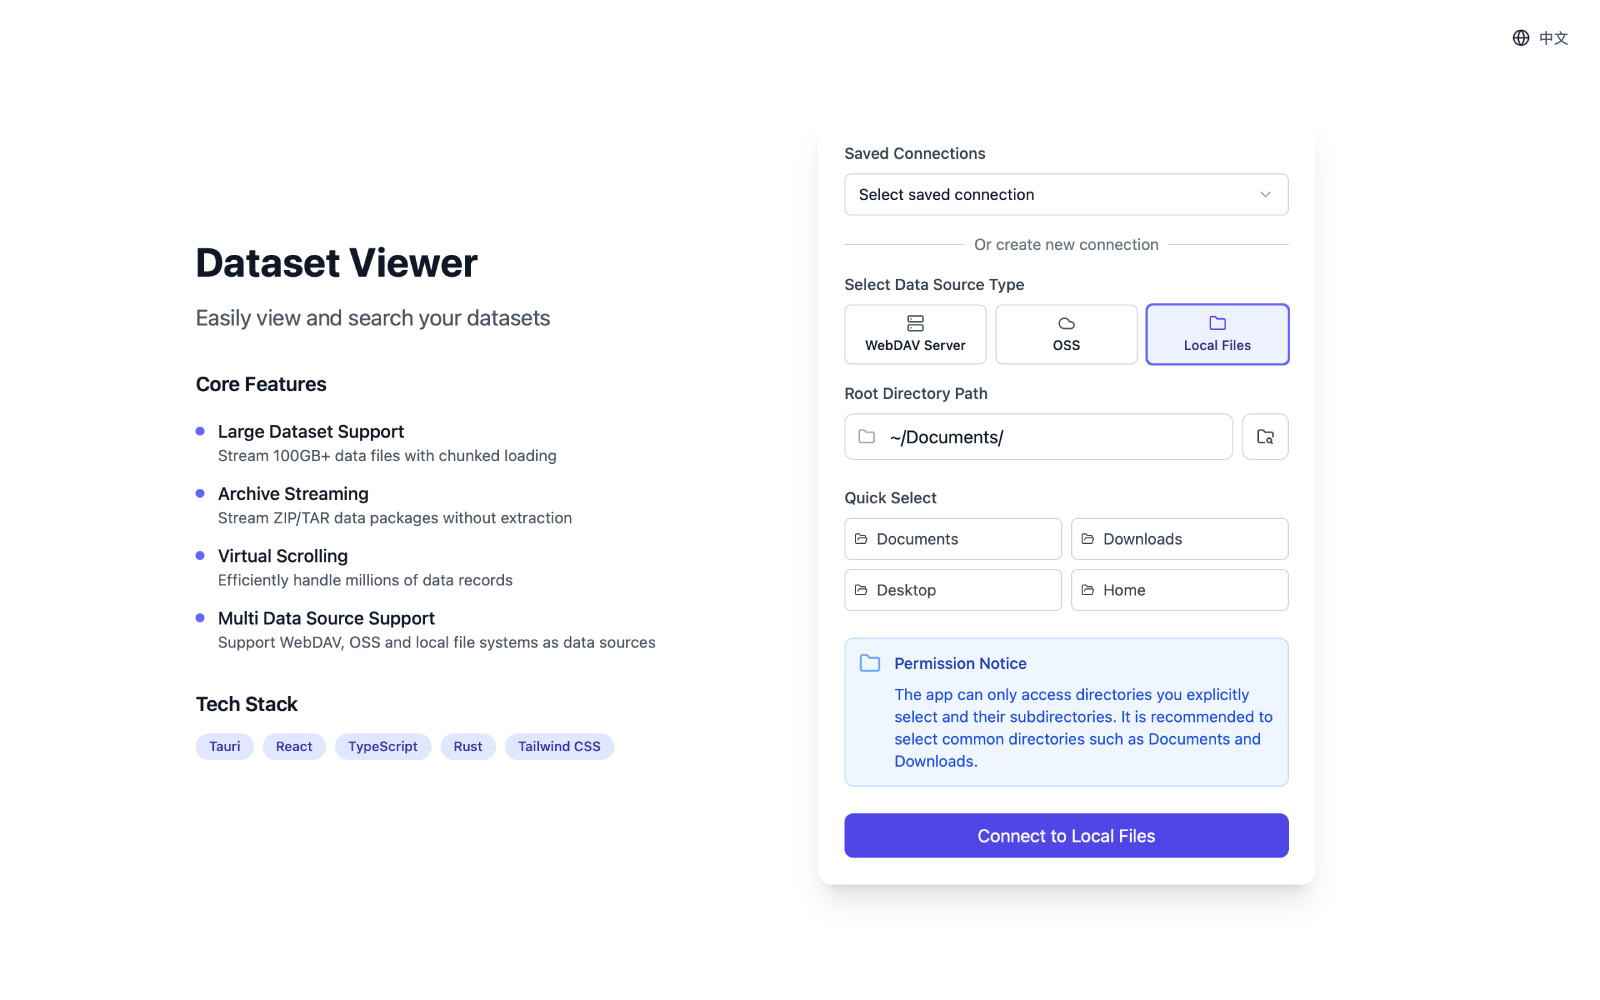
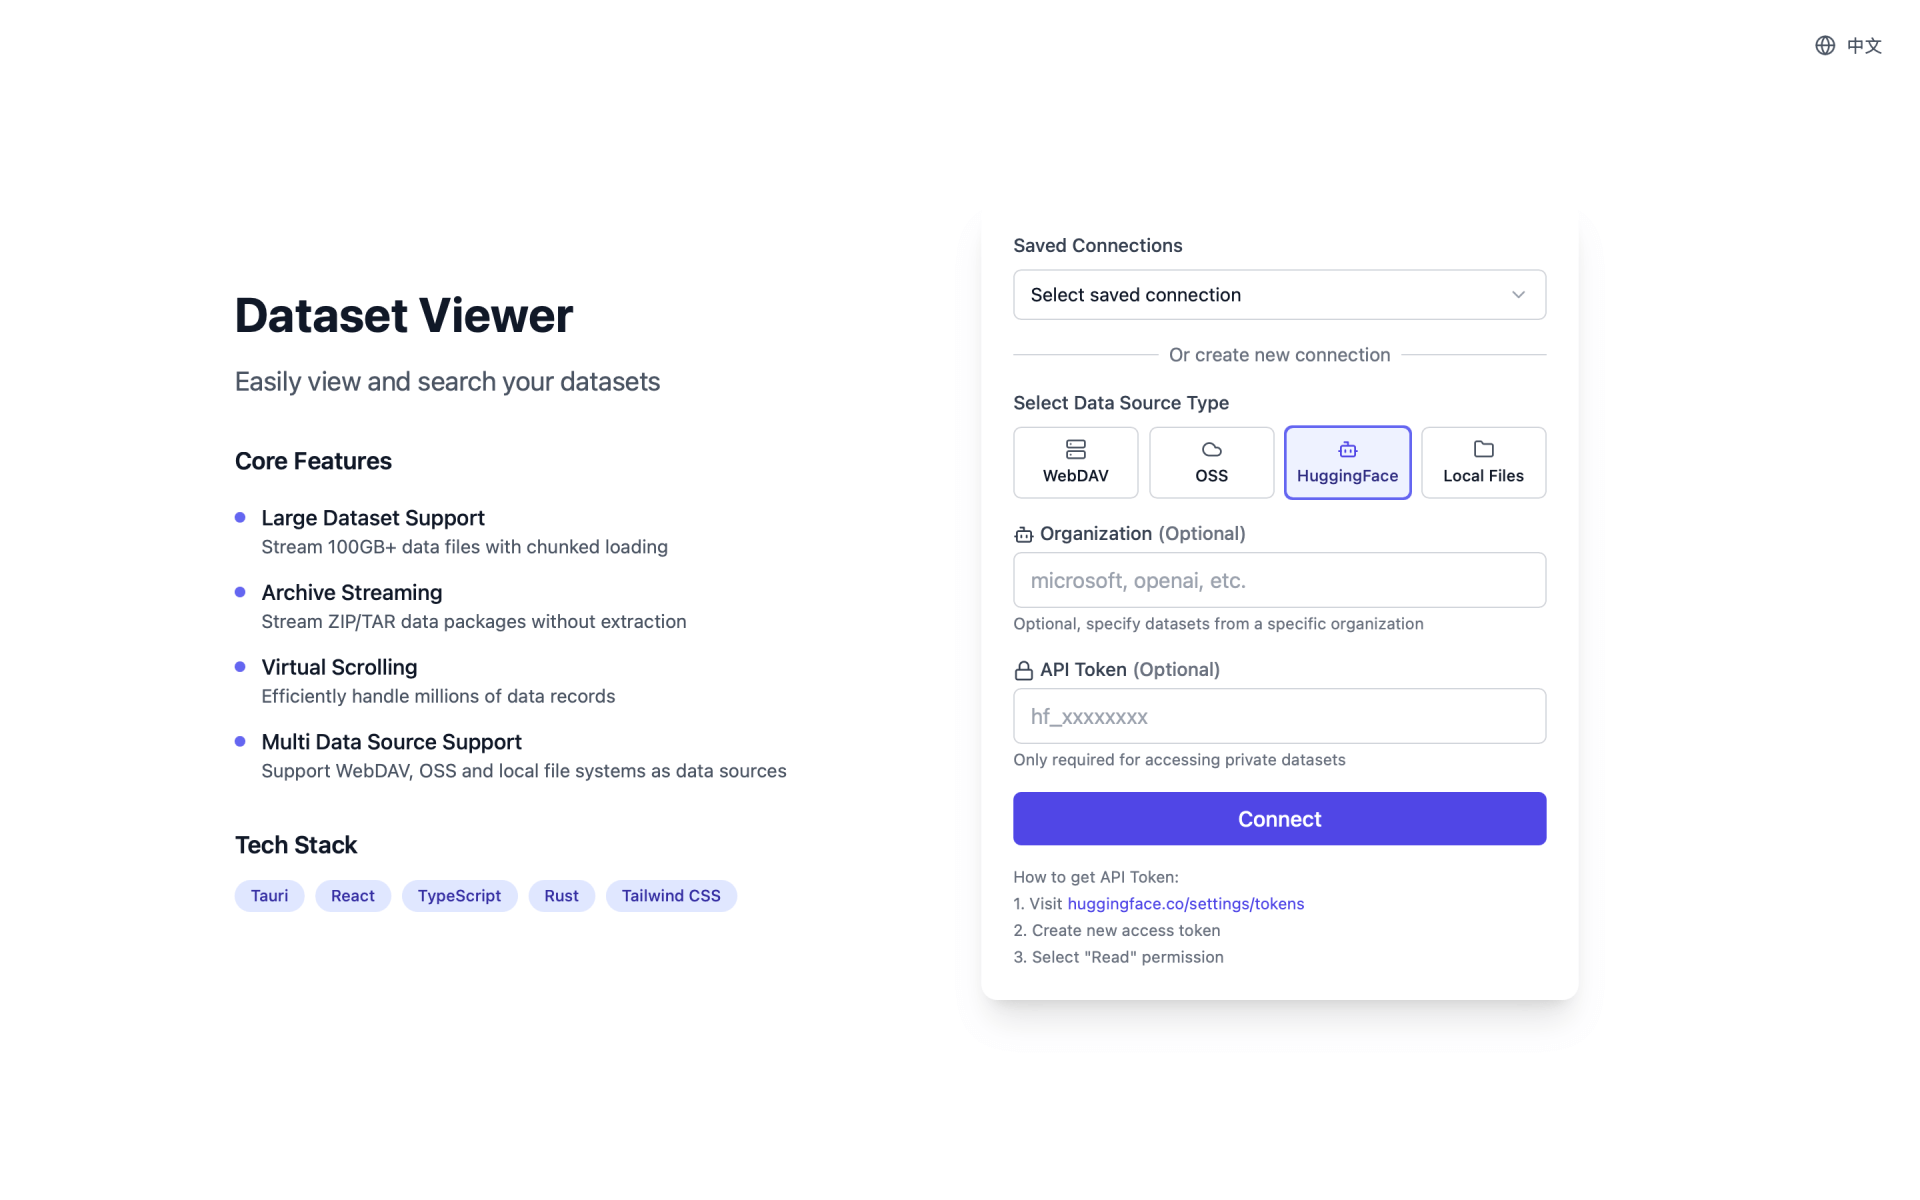
feat: add HuggingFace support and fix i18n configuration
- Add HuggingFace to multi-source descriptions in README files
- Update error messages to include HuggingFace support
- Add HuggingFace to supported protocols list
- Fix i18n namespace usage by removing namespace parameters
- Clean up duplicate translation keys across files
- Consolidate app.name, connected.to, and app.initializing in common.ts
- Remove hardcoded default values from translation functions

diff --git a/src/components/ConnectionPanel/HuggingFaceConnectionForm.tsx b/src/components/ConnectionPanel/HuggingFaceConnectionForm.tsx
@@ -75,20 +75,20 @@ export const HuggingFaceConnectionForm: React.FC<HuggingFaceConnectionFormProps>
       <div>
         <label className="block text-sm font-medium text-gray-700 dark:text-gray-300 mb-1">
           <Bot className="inline w-4 h-4 mr-1" />
-          {t('huggingface.organization', '组织')}
-          <span className="text-gray-500 ml-1">{t('common.optional', '(可选)')}</span>
+          {t('huggingface.organization')}
+          <span className="text-gray-500 ml-1">{t('optional')}</span>
         </label>
         <input
           type="text"
           value={formData.organization}
           onChange={handleInputChange('organization')}
-          placeholder={t('huggingface.organization.placeholder', 'microsoft, openai, etc.')}
+          placeholder={t('huggingface.organization.placeholder')}
           className="w-full px-3 py-2 border border-gray-300 dark:border-gray-600 rounded-md
                    bg-white dark:bg-gray-700 text-gray-900 dark:text-gray-100
                    focus:outline-none focus:ring-2 focus:ring-indigo-500 focus:border-transparent"
         />
         <p className="text-xs text-gray-500 dark:text-gray-400 mt-1">
-          {t('huggingface.organization.help', '可选，指定特定组织的数据集')}
+          {t('huggingface.organization.help')}
         </p>
       </div>
 
@@ -96,20 +96,20 @@ export const HuggingFaceConnectionForm: React.FC<HuggingFaceConnectionFormProps>
       <div>
         <label className="block text-sm font-medium text-gray-700 dark:text-gray-300 mb-1">
           <Lock className="inline w-4 h-4 mr-1" />
-          {t('huggingface.apiToken', 'API Token')}
-          <span className="text-gray-500 ml-1">{t('common.optional', '(可选)')}</span>
+          {t('huggingface.apiToken')}
+          <span className="text-gray-500 ml-1">{t('optional')}</span>
         </label>
         <input
           type="password"
           value={formData.apiToken}
           onChange={handleInputChange('apiToken')}
-          placeholder={t('huggingface.apiToken.placeholder', 'hf_xxxxxxxx')}
+          placeholder={t('huggingface.apiToken.placeholder')}
           className="w-full px-3 py-2 border border-gray-300 dark:border-gray-600 rounded-md
                    bg-white dark:bg-gray-700 text-gray-900 dark:text-gray-100
                    focus:outline-none focus:ring-2 focus:ring-indigo-500 focus:border-transparent"
         />
         <p className="text-xs text-gray-500 dark:text-gray-400 mt-1">
-          {t('huggingface.apiToken.help', '仅在访问私有数据集时需要')}
+          {t('huggingface.apiToken.help')}
         </p>
       </div>
 
@@ -125,20 +125,20 @@ export const HuggingFaceConnectionForm: React.FC<HuggingFaceConnectionFormProps>
         {isConnecting ? (
           <div className="flex items-center justify-center">
             <div className="animate-spin rounded-full h-4 w-4 border-b-2 border-white mr-2"></div>
-            {t('connection.connecting', '连接中...')}
+            {t('connecting')}
           </div>
         ) : (
-          t('connection.connect', '连接')
+          t('connect')
         )}
       </button>
 
       {/* 帮助信息 */}
       <div className="text-xs text-gray-500 dark:text-gray-400 space-y-1">
         <p>
-          {t('huggingface.help.token.title', 'API Token 获取方式：')}
+          {t('huggingface.help.token.title')}
         </p>
         <p>
-          1. {t('huggingface.help.token.step1', '访问')}
+          1. {t('huggingface.help.token.step1')}
           <a
             href="https://huggingface.co/settings/tokens"
             target="_blank"
@@ -149,10 +149,10 @@ export const HuggingFaceConnectionForm: React.FC<HuggingFaceConnectionFormProps>
           </a>
         </p>
         <p>
-          2. {t('huggingface.help.token.step2', '创建新的访问令牌')}
+          2. {t('huggingface.help.token.step2')}
         </p>
         <p>
-          3. {t('huggingface.help.token.step3', '选择 "Read" 权限即可')}
+          3. {t('huggingface.help.token.step3')}
         </p>
       </div>
     </form>

diff --git a/src/components/ConnectionPanel/OSSConnectionForm.tsx b/src/components/ConnectionPanel/OSSConnectionForm.tsx
@@ -290,19 +290,19 @@ export const OSSConnectionForm: React.FC<OSSConnectionFormProps> = ({
         {/* 帮助信息 */}
         <div className="text-xs text-gray-500 dark:text-gray-400 space-y-1">
           <p>
-            {t('oss.help.credentials.title', 'Access Key 获取方式：')}
+            {t('oss.help.credentials.title')}
           </p>
           <p>
-            1. {t('oss.help.step1', '登录对象存储服务控制台（阿里云、AWS、MinIO 等）')}
+            1. {t('oss.help.step1')}
           </p>
           <p>
-            2. {t('oss.help.step2', '在访问控制或安全凭证页面创建 Access Key')}
+            2. {t('oss.help.step2')}
           </p>
           <p>
-            3. {t('oss.help.step3', '记录生成的 Access Key ID 和 Secret Access Key')}
+            3. {t('oss.help.step3')}
           </p>
           <p>
-            4. {t('oss.help.step4', '确保该密钥有访问目标存储桶的权限')}
+            4. {t('oss.help.step4')}
           </p>
         </div>
       </form>

diff --git a/src/i18n/locales/en/connection.ts b/src/i18n/locales/en/connection.ts
@@ -1,6 +1,5 @@
 export const connection = {
-  // Application title and description
-  'app.name': 'Dataset Viewer',
+  // Application description for connection page
   'connect.storage': 'Connect to data source or local file system',
   'app.tagline': 'Easily view and search your datasets',
   'app.description': 'Cross-platform dataset viewer supporting WebDAV, object storage, and local file systems with powerful features like streaming and virtual scrolling, designed for large datasets.',
@@ -44,8 +43,8 @@ export const connection = {
   'password.saved': 'Using saved password',
   'password.click.new': 'Click to enter new password',
   'connecting': 'Connecting...',
-  'connected.to': 'Connected to',
   'connect': 'Connect',
+  'optional': '(Optional)',
 
   // OSS specific fields
   'oss.endpoint': 'Endpoint',

diff --git a/src/i18n/locales/zh/connection.ts b/src/i18n/locales/zh/connection.ts
@@ -1,6 +1,5 @@
 export const connection = {
-  // 应用标题和描述
-  'app.name': '数据集查看器',
+  // 连接页面应用描述
   'connect.storage': '连接到数据源或本地文件系统',
   'app.tagline': '轻松查看和搜索您的数据集',
   'app.description': '跨平台数据集查看工具，支持 WebDAV、对象存储和本地文件系统，提供流式传输和虚拟滚动等强大功能，专为大数据集设计。',
@@ -44,8 +43,8 @@ export const connection = {
   'password.saved': '使用已保存的密码',
   'password.click.new': '点击输入新密码',
   'connecting': '连接中...',
-  'connected.to': '已连接到',
   'connect': '连接',
+  'optional': '(可选)',
 
   // OSS 特定字段
   'oss.endpoint': '端点地址',

diff --git a/src/components/FileBrowser/index.tsx b/src/components/FileBrowser/index.tsx
@@ -594,10 +594,10 @@ export const FileBrowser: React.FC<FileBrowserProps> = ({
               <button
                 onClick={() => handleGlobalSearch(searchTerm.trim())}
                 className="px-2 py-1.5 bg-indigo-600 hover:bg-indigo-700 text-white text-sm rounded-lg transition-colors flex-shrink-0 flex items-center space-x-1"
-                title={t('search.global', 'Search datasets')}
+                title={t('search.global')}
               >
                 <Search className="w-3 h-3" />
-                <span className="hidden sm:inline">{t('search.datasets', 'Search')}</span>
+                <span className="hidden sm:inline">{t('search.datasets')}</span>
               </button>
             )}
 

diff --git a/src/components/SplashScreen.tsx b/src/components/SplashScreen.tsx
@@ -20,7 +20,7 @@ export const SplashScreen: React.FC<SplashScreenProps> = ({ message }) => {
         <div className="flex items-center justify-center space-x-2">
           <Loader2 className="w-6 h-6 animate-spin text-indigo-600 dark:text-indigo-400" />
           <span className="text-gray-600 dark:text-gray-300 text-sm font-medium">
-            {message || t('app.initializing', '正在初始化...')}
+            {message || t('app.initializing')}
           </span>
         </div>
 

diff --git a/src/i18n/locales/zh/common.ts b/src/i18n/locales/zh/common.ts
@@ -1,4 +1,11 @@
 export const common = {
+  // 应用信息
+  'app.name': '数据集查看器',
+  'app.initializing': '正在初始化...',
+  
+  // 连接状态
+  'connected.to': '已连接到',
+
   // 基础操作
   'save': '保存',
   'cancel': '取消',
@@ -10,6 +17,7 @@ export const common = {
   'ok': '确定',
   'retry': '重试',
   'loading': '加载中...',
+  'optional': '(可选)',
 
   // 时间相关
   'time.today': '今天',

diff --git a/src/i18n/locales/en/common.ts b/src/i18n/locales/en/common.ts
@@ -1,4 +1,11 @@
 export const common = {
+  // App information
+  'app.name': 'Dataset Viewer',
+  'app.initializing': 'Initializing...',
+
+  // Connection status
+  'connected.to': 'Connected to',
+
   // Basic operations
   'save': 'Save',
   'cancel': 'Cancel',
@@ -10,6 +17,7 @@ export const common = {
   'ok': 'OK',
   'retry': 'Retry',
   'loading': 'Loading...',
+  'optional': '(Optional)',
 
   // Time related
   'time.today': 'Today',

diff --git a/src/services/storage/LocalStorageClient.ts b/src/services/storage/LocalStorageClient.ts
@@ -23,7 +23,7 @@ export class LocalStorageClient extends BaseStorageClient {
    * 获取连接的显示名称
    */
   getDisplayName(): string {
-    return this.displayPath || '本机文件';
+    return this.displayPath || 'Local Files';
   }
 
   /**

diff --git a/src-tauri/src/lib.rs b/src-tauri/src/lib.rs
@@ -358,7 +358,7 @@ async fn analyze_archive(
             max_size
         ).await
     } else {
-        Err("No storage client available. Please connect to a storage first (Local, WebDAV, or OSS)".to_string())
+        Err("No storage client available. Please connect to a storage first (Local, WebDAV, OSS, or HuggingFace)".to_string())
     }
 }
 
@@ -387,7 +387,7 @@ async fn get_file_preview(
             max_preview_size
         ).await
     } else {
-        Err("No storage client available. Please connect to a storage first (Local, WebDAV, or OSS)".to_string())
+        Err("No storage client available. Please connect to a storage first (Local, WebDAV, OSS, or HuggingFace)".to_string())
     }
 }
 

diff --git a/src-tauri/src/storage/manager.rs b/src-tauri/src/storage/manager.rs
@@ -116,7 +116,7 @@ impl StorageManager {
     }
 
     pub fn supported_protocols(&self) -> Vec<&str> {
-        vec!["webdav", "local", "oss"] // 支持 WebDAV、本机文件系统和 OSS
+        vec!["webdav", "local", "oss", "huggingface"] // 支持 WebDAV、本机文件系统、OSS 和 HuggingFace
     }
 }
 

diff --git a/README.md b/README.md
@@ -2,7 +2,7 @@
 
 > 🤖 **This project is 100% AI-generated** using GitHub Copilot and Claude AI
 
-A modern, high-performance dataset viewer built with Tauri, React, and TypeScript. Designed to handle massive datasets from multiple sources (WebDAV, local files, OSS) with efficient streaming for large text files (hundreds of GB) and fast in-file search capabilities.
+A modern, high-performance dataset viewer built with Tauri, React, and TypeScript. Designed to handle massive datasets from multiple sources (WebDAV, local files, OSS, HuggingFace) with efficient streaming for large text files (hundreds of GB) and fast in-file search capabilities.
 
 [中文文档](README_zh.md) · **[Download Latest Release](https://github.com/stardustai/dataset-viewer/releases/latest)**
 
@@ -15,7 +15,7 @@ A modern, high-performance dataset viewer built with Tauri, React, and TypeScrip
 
 ## 🚀 Features
 
-- 🌐 **Multi-Source Support**: WebDAV servers, local files, cloud storage (OSS)
+- 🌐 **Multi-Source Support**: WebDAV servers, local files, cloud storage (OSS), HuggingFace datasets
 - 📊 **Large Dataset Streaming**: Handle 100GB+ files with virtualized rendering
 - 📦 **Archive Preview**: Browse ZIP/TAR files without extraction
 - 🔍 **Fast Search**: Real-time regex search with highlighting
